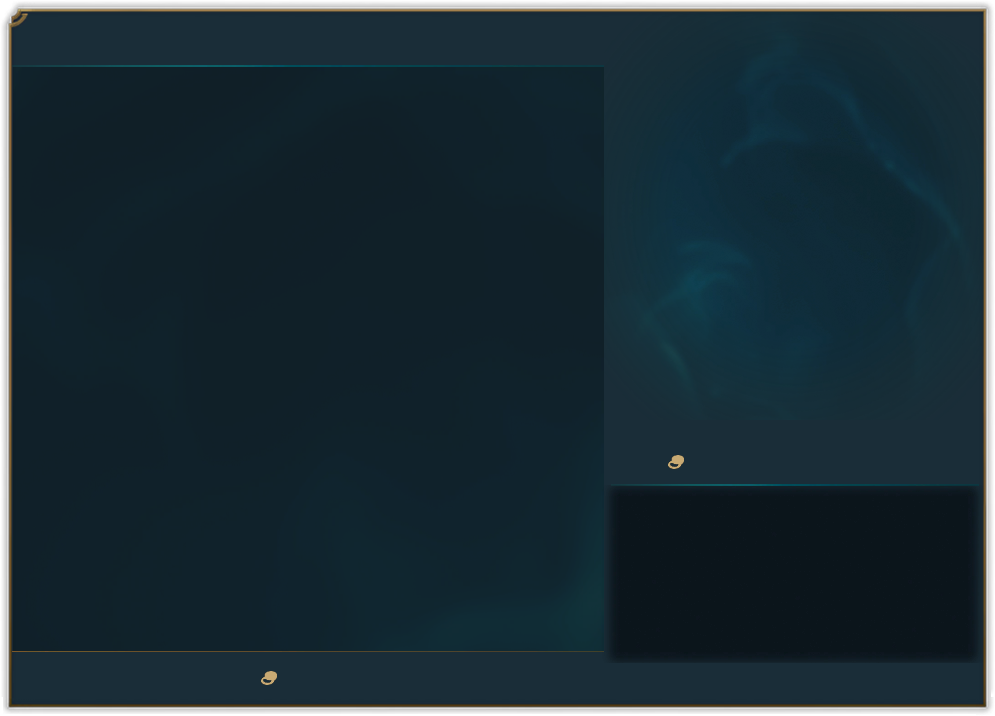
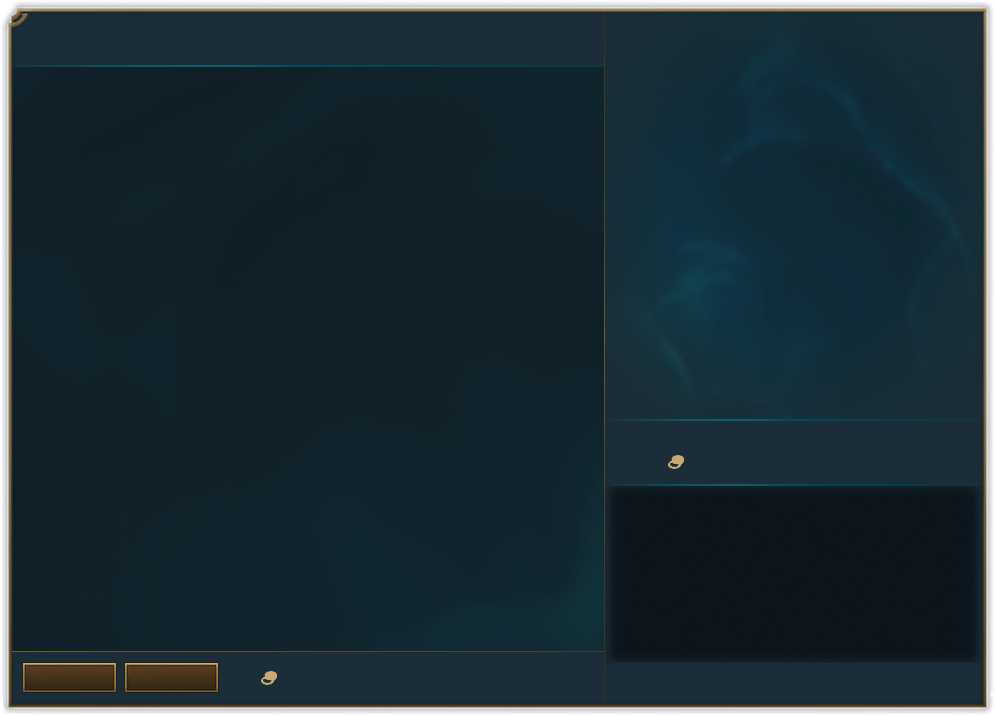
PlayerInfoPanel 수정중

Changed region(s): [[0.0, 0.9218, 0.2181, 0.9832]]

diff --git a/D3DFramework/D3DFramework/PlayerInfoPanel.cpp b/D3DFramework/D3DFramework/PlayerInfoPanel.cpp
@@ -12,18 +12,33 @@ PlayerInfoPanel::PlayerInfoPanel()
     screenW = MainGame::GetWidth();
     screenH = MainGame::GetHeight();
 
+// this
     mainPanelTex = RenderManager::GetTexture(L"panel (5)");
+    this->SetLocation((screenW * 0.5f) - mainPanelTex->GetSpriteWidth() * 0.5f, (float)(screenH - mainPanelTex->GetSpriteHeight()));
+
+// StatPanel
+    statPanel = AddChild<UI>(L"statPanel", new UI(L"stat_panel (5)_icon", Vector2(293, 21)));
+
+// InvenPanel
+    invenPanel = AddChild<UI>(L"invenPanel", new UI(L"panel (2)", Vector2(293, 21)));
+
+// mainPanel
+    mainPanel = AddChild<UI>(L"mainPanel", new UI(L"panel (5)", Vector2(0.f, 0.f)));
+
+    // ↑수정됨
+    // =========================================================================================================================
+#if 0
     faceBorderTex = RenderManager::GetTexture(L"panel (1)");
     invenPanelTex = RenderManager::GetTexture(L"panel (2)");
     statPanelTex = RenderManager::GetTexture(L"stat_panel (5)");
 
-    Vector2 mainPanelPos{ (screenW - mainPanelTex->GetSpriteWidth()) * 0.5f, float(screenH - mainPanelTex->GetSpriteHeight())};
+    Vector2 mainPanelPos{ (screenW - mainPanelTex->GetSpriteWidth()) * 0.5f, float(screenH - mainPanelTex->GetSpriteHeight()) };
     Vector2 invenPanelPos{ mainPanelPos.x + mainPanelTex->GetSpriteWidth() - 25, float(screenH - invenPanelTex->GetSpriteHeight())};
     Vector2 faceBorderPos{ mainPanelPos.x - faceBorderTex->GetSpriteWidth() * 0.6f, mainPanelPos.y + 10};
     Vector2 statPanelPos{ faceBorderPos.x - statPanelTex->GetSpriteWidth() * 0.8f, faceBorderPos.y};
 
-    statPanel = new UI(L"stat_panel (5)", statPanelPos);
-    mainPanel = new UI(L"panel (5)", mainPanelPos);
+    //statPanel = new UI(L"stat_panel (5)", statPanelPos);
+    //mainPanel = new UI(L"panel (5)", mainPanelPos);
     invenPanel = new UI(L"panel (2)", invenPanelPos);
     facePanel = new UI(L"garen_circle", Vector2(faceBorderPos.x + 20, faceBorderPos.y + 20));
     faceBorder = new UI(L"panel (1)", faceBorderPos);
@@ -68,33 +83,34 @@ PlayerInfoPanel::PlayerInfoPanel()
     slotPassive = new UI(Vector2(mainPanelPos.x + 70, mainPanelPos.y + 31));
     slotSummoner1 = new UI(Vector2(mainPanelPos.x + 434, mainPanelPos.y + 32));
     slotSummoner2 = new UI(Vector2(mainPanelPos.x + 490, mainPanelPos.y + 32));
+#endif
 }
 
 PlayerInfoPanel::~PlayerInfoPanel()
 {
-    Safe_Delete(&statPanel);
-    Safe_Delete(&mainPanel);
-    Safe_Delete(&invenPanel);
-    Safe_Delete(&faceBorder);
-    Safe_Delete(&facePanel);
-    Safe_Delete(&hpLabel);
-    Safe_Delete(&mpLabel);
-    Safe_Delete(&slotSpell1);
-    Safe_Delete(&slotSpell2);
-    Safe_Delete(&slotSpell3);
-    Safe_Delete(&slotSpell4);
-    Safe_Delete(&slotPassive);
-    Safe_Delete(&slotSummoner1);
-    Safe_Delete(&slotSummoner2);
-    for (int i = 0; i < 8; i++)
-    {
-        Safe_Delete(&statLabel[i]);
-    }
-
-    mainPanelTex = nullptr;
-    faceBorderTex = nullptr;
-    invenPanelTex = nullptr;
-    champion = nullptr;
+    //Safe_Delete(&statPanel);
+    //Safe_Delete(&mainPanel);
+    //Safe_Delete(&invenPanel);
+    //Safe_Delete(&faceBorder);
+    //Safe_Delete(&facePanel);
+    //Safe_Delete(&hpLabel);
+    //Safe_Delete(&mpLabel);
+    //Safe_Delete(&slotSpell1);
+    //Safe_Delete(&slotSpell2);
+    //Safe_Delete(&slotSpell3);
+    //Safe_Delete(&slotSpell4);
+    //Safe_Delete(&slotPassive);
+    //Safe_Delete(&slotSummoner1);
+    //Safe_Delete(&slotSummoner2);
+    //for (int i = 0; i < 8; i++)
+    //{
+    //    Safe_Delete(&statLabel[i]);
+    //}
+    //
+    //mainPanelTex = nullptr;
+    //faceBorderTex = nullptr;
+    //invenPanelTex = nullptr;
+    //champion = nullptr;
 }
 
 PlayerInfoPanel* PlayerInfoPanel::GetInstance()
@@ -147,27 +163,27 @@ void PlayerInfoPanel::Update()
     //}
 
     GameObject::Update();
-    mainPanel->Update();
-    invenPanel->Update();
-    faceBorder->Update();
-    facePanel->Update();
-    statPanel->Update();
-
-    hpLabel->Update();
-    mpLabel->Update();
-
-    slotSpell1->Update();
-    slotSpell2->Update();
-    slotSpell3->Update();
-    slotSpell4->Update();
-    slotPassive->Update();
-    slotSummoner1->Update();
-    slotSummoner2->Update();
-
-    for (int i = 0; i < 8; i++)
-    {
-        statLabel[i]->Update();
-    }
+    //mainPanel->Update();
+    //invenPanel->Update();
+    //faceBorder->Update();
+    //facePanel->Update();
+    //statPanel->Update();
+    //
+    //hpLabel->Update();
+    //mpLabel->Update();
+    //
+    //slotSpell1->Update();
+    //slotSpell2->Update();
+    //slotSpell3->Update();
+    //slotSpell4->Update();
+    //slotPassive->Update();
+    //slotSummoner1->Update();
+    //slotSummoner2->Update();
+    //
+    //for (int i = 0; i < 8; i++)
+    //{
+    //    statLabel[i]->Update();
+    //}
 }
 //
 //void PlayerInfoPanel::Render()
@@ -306,13 +322,13 @@ void PlayerInfoPanel::Update()
 
 void PlayerInfoPanel::SetTarget(Champion* _target)
 {
-    champion = _target;
-    if (_target == nullptr) return;
-    facePanel->SetTexture(champion->faceCircleTexkey);
-
-    slotSpell1->SetTexture(champion->qTexKey);
-    slotSpell2->SetTexture(champion->wTexKey);
-    slotSpell3->SetTexture(champion->eTexKey);
-    slotSpell4->SetTexture(champion->rTexKey);
-    slotPassive->SetTexture(champion->passiveTexKey);
+    //champion = _target;
+    //if (_target == nullptr) return;
+    //facePanel->SetTexture(champion->faceCircleTexkey);
+    //
+    //slotSpell1->SetTexture(champion->qTexKey);
+    //slotSpell2->SetTexture(champion->wTexKey);
+    //slotSpell3->SetTexture(champion->eTexKey);
+    //slotSpell4->SetTexture(champion->rTexKey);
+    //slotPassive->SetTexture(champion->passiveTexKey);
 }

diff --git a/D3DFramework/D3DFramework/ItemshopPanel.cpp b/D3DFramework/D3DFramework/ItemshopPanel.cpp
@@ -18,19 +18,26 @@ ItemshopPanel::ItemshopPanel()
 
     AddChild<UI>(L"background", new UI(L"itemshop_background", Vector2(0, 0)));
 
-    auto title_label = AddChild<Label>(L"titleLabel", new Label(15));
+    auto title_label = AddChild<Label>(L"titleLabel", new Label());
     title_label->transform->position = { 40.f, 40.f, 0 };
     title_label->align = Label::Align::Left;
     title_label->valign = Label::VAlign::Middle;
     title_label->foreColor = D3DCOLOR_ARGB(255, 177, 174, 160);
     title_label->text = L"상점";
 
-    auto topitemtitle_label = AddChild<Label>(L"topitemtitleLabel", new Label(15));
+    auto topitemtitle_label = AddChild<Label>(L"topitemtitleLabel", new Label());
     topitemtitle_label->transform->position = { 622.f, 40.f, 0 };
     topitemtitle_label->align = Label::Align::Left;
     topitemtitle_label->valign = Label::VAlign::Middle;
     topitemtitle_label->foreColor = D3DCOLOR_ARGB(255, 177, 174, 160);
     topitemtitle_label->text = L"상위 아이템";
+
+    auto currentgold_label = AddChild<Label>(L"currentgoldLabel", new Label(15));
+    currentgold_label->transform->position = { 260.f, 677.f, 0 };
+    currentgold_label->align = Label::Align::Left;
+    currentgold_label->valign = Label::VAlign::Middle;
+    currentgold_label->foreColor = D3DCOLOR_ARGB(255, 191, 179, 138);
+    currentgold_label->text = L"0";
 
     auto btn_sel = AddChild<Button>(L"selectbtn", new Button(L"itemshop_button_sel_default", Vector2(22,  662)));
     auto btn_sel_label = dynamic_cast<Label*>(btn_sel->AddChild<Label>(L"selLabel", new Label(15)));

diff --git a/D3DFramework/D3DFramework/MainGame.cpp b/D3DFramework/D3DFramework/MainGame.cpp
@@ -303,6 +303,7 @@ void PKH::MainGame::LoadUISprite()
 	RenderManager::LoadSprite(L"Resource\\UI\\HUD\\", L"stat_panel (3).png");
 	RenderManager::LoadSprite(L"Resource\\UI\\HUD\\", L"stat_panel (4).png");
 	RenderManager::LoadSprite(L"Resource\\UI\\HUD\\", L"stat_panel (5).png");
+	RenderManager::LoadSprite(L"Resource\\UI\\HUD\\", L"stat_panel (5)_icon.png");
 
 	// Itemshop
 	RenderManager::LoadSprite(L"Resource\\UI\\itemshop\\", L"itemshop_background.png");
